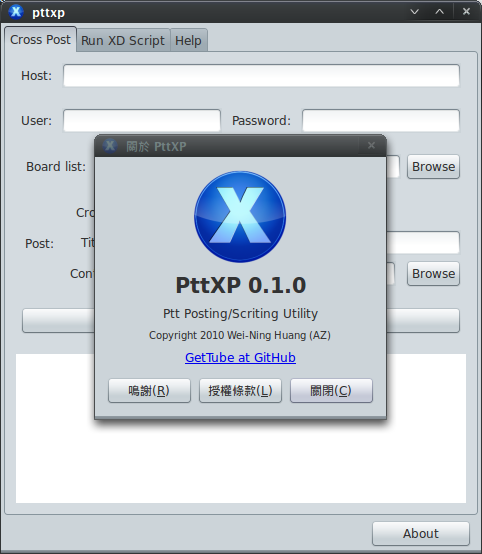
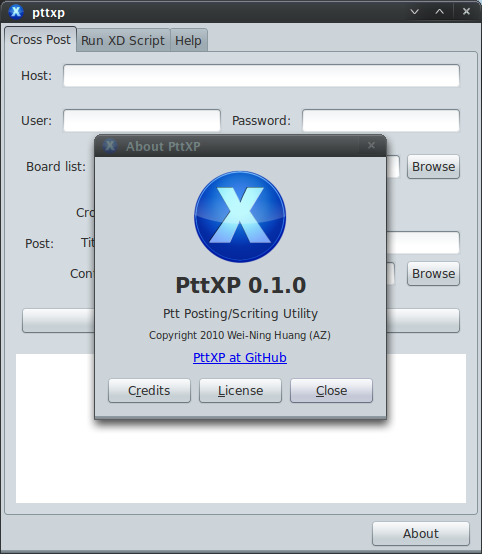
fix typo

diff --git a/pttxp/gui.py b/pttxp/gui.py
@@ -141,8 +141,8 @@ along with this program; if not, write to the Free Software Foundation,
 Inc., 51 Franklin Street, Fifth Floor, Boston, MA 02110-1301 USA.
 ''')
         about.set_copyright('Copyright 2010 Wei-Ning Huang (AZ)')
-        about.set_website('http://github.com/Aitjcize/pttxp')
-        about.set_website_label('GetTube at GitHub')
+        about.set_website('http://berelent.blogspot.com/2010/09/pttxp-ptt.html')
+        about.set_website_label('PttXP at GitHub')
         about.set_authors(['Wei-Ning Huang (AZ) <aitjcize@gmail.com>'])
         about.set_logo(gtk.gdk.pixbuf_new_from_file_at_size(program_logo,
             96, 96))
